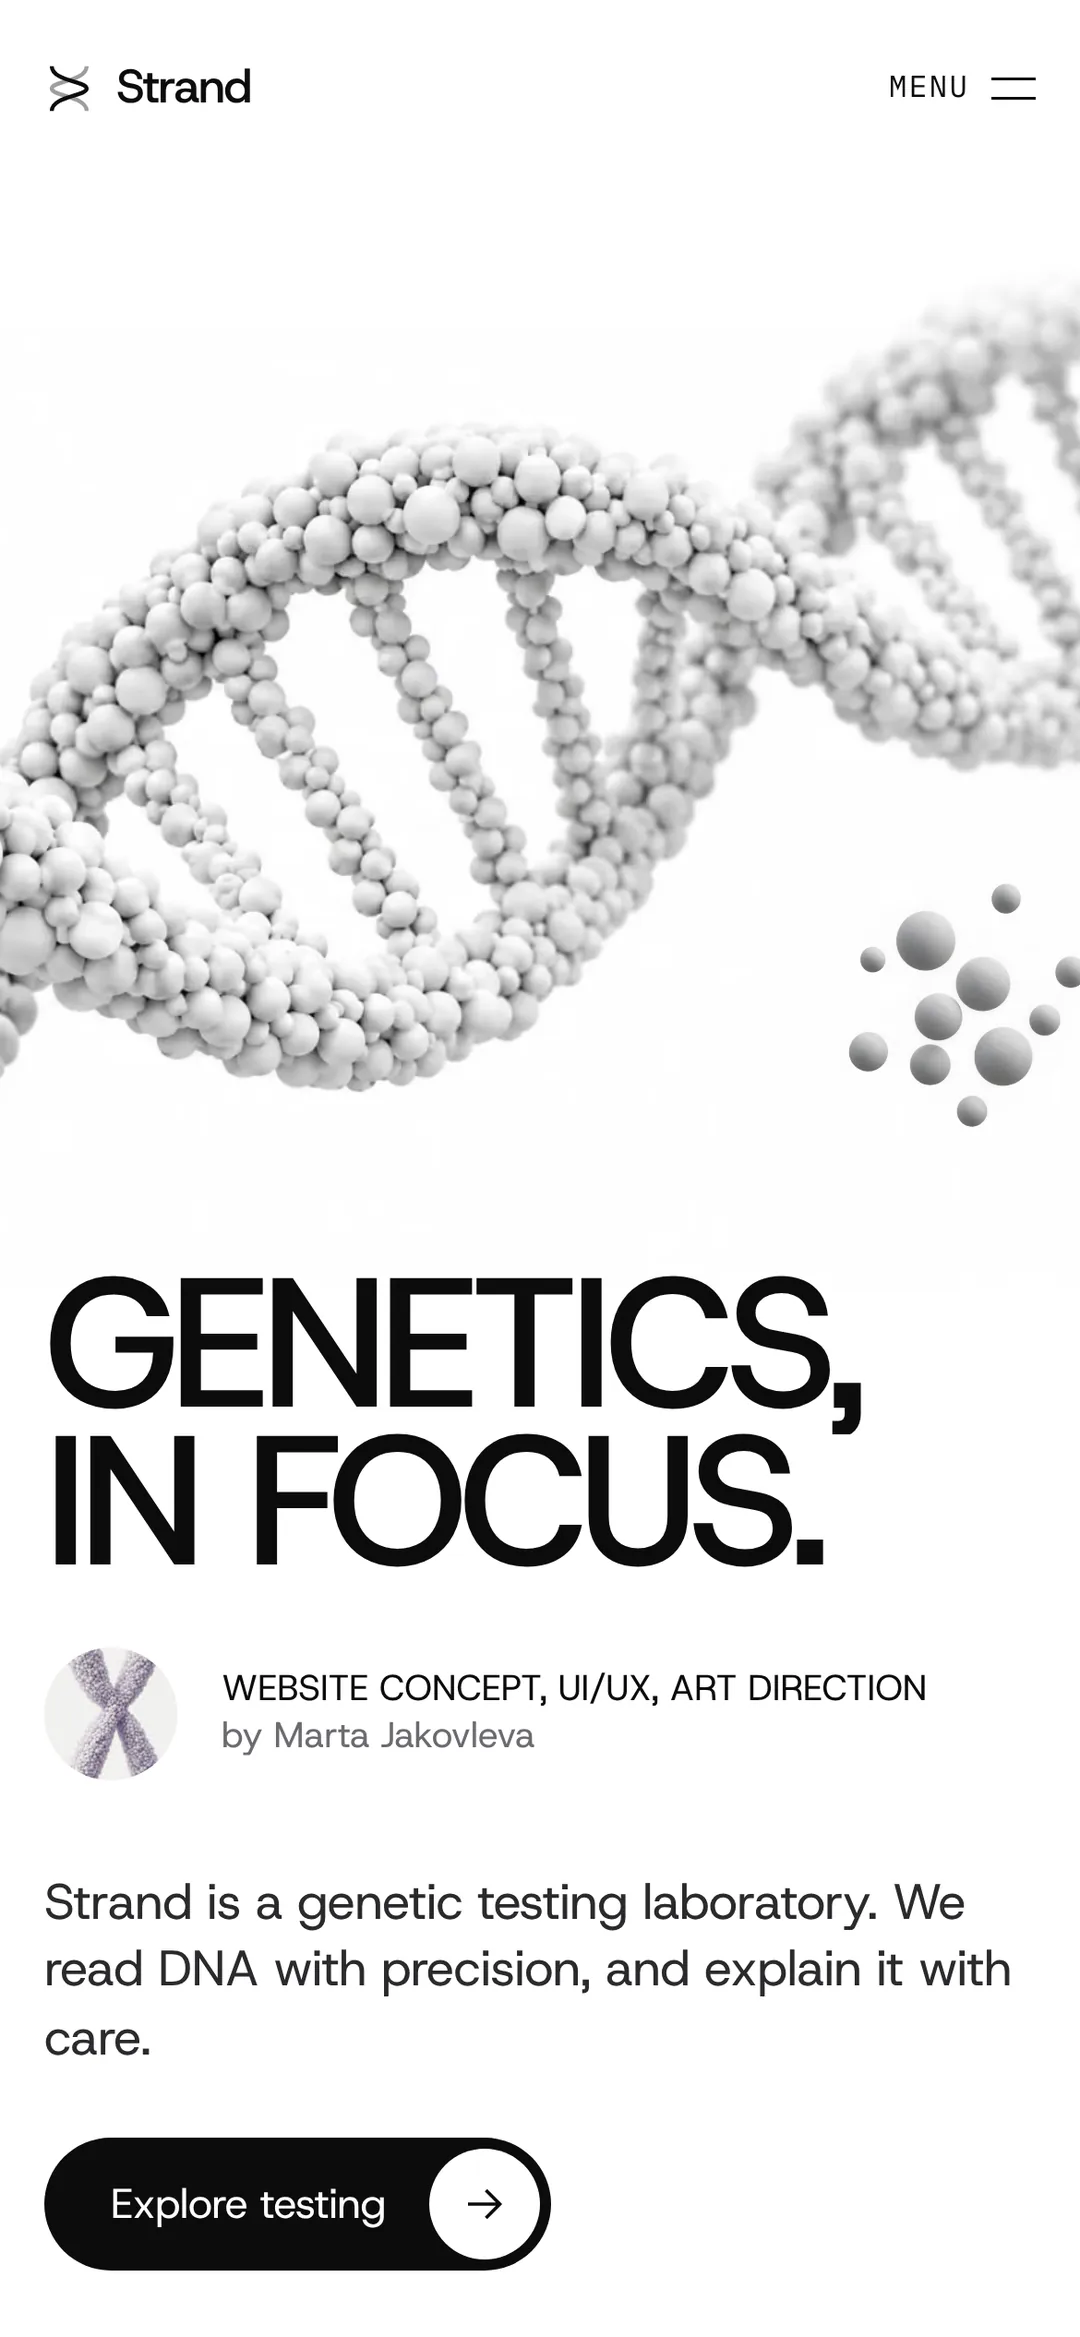
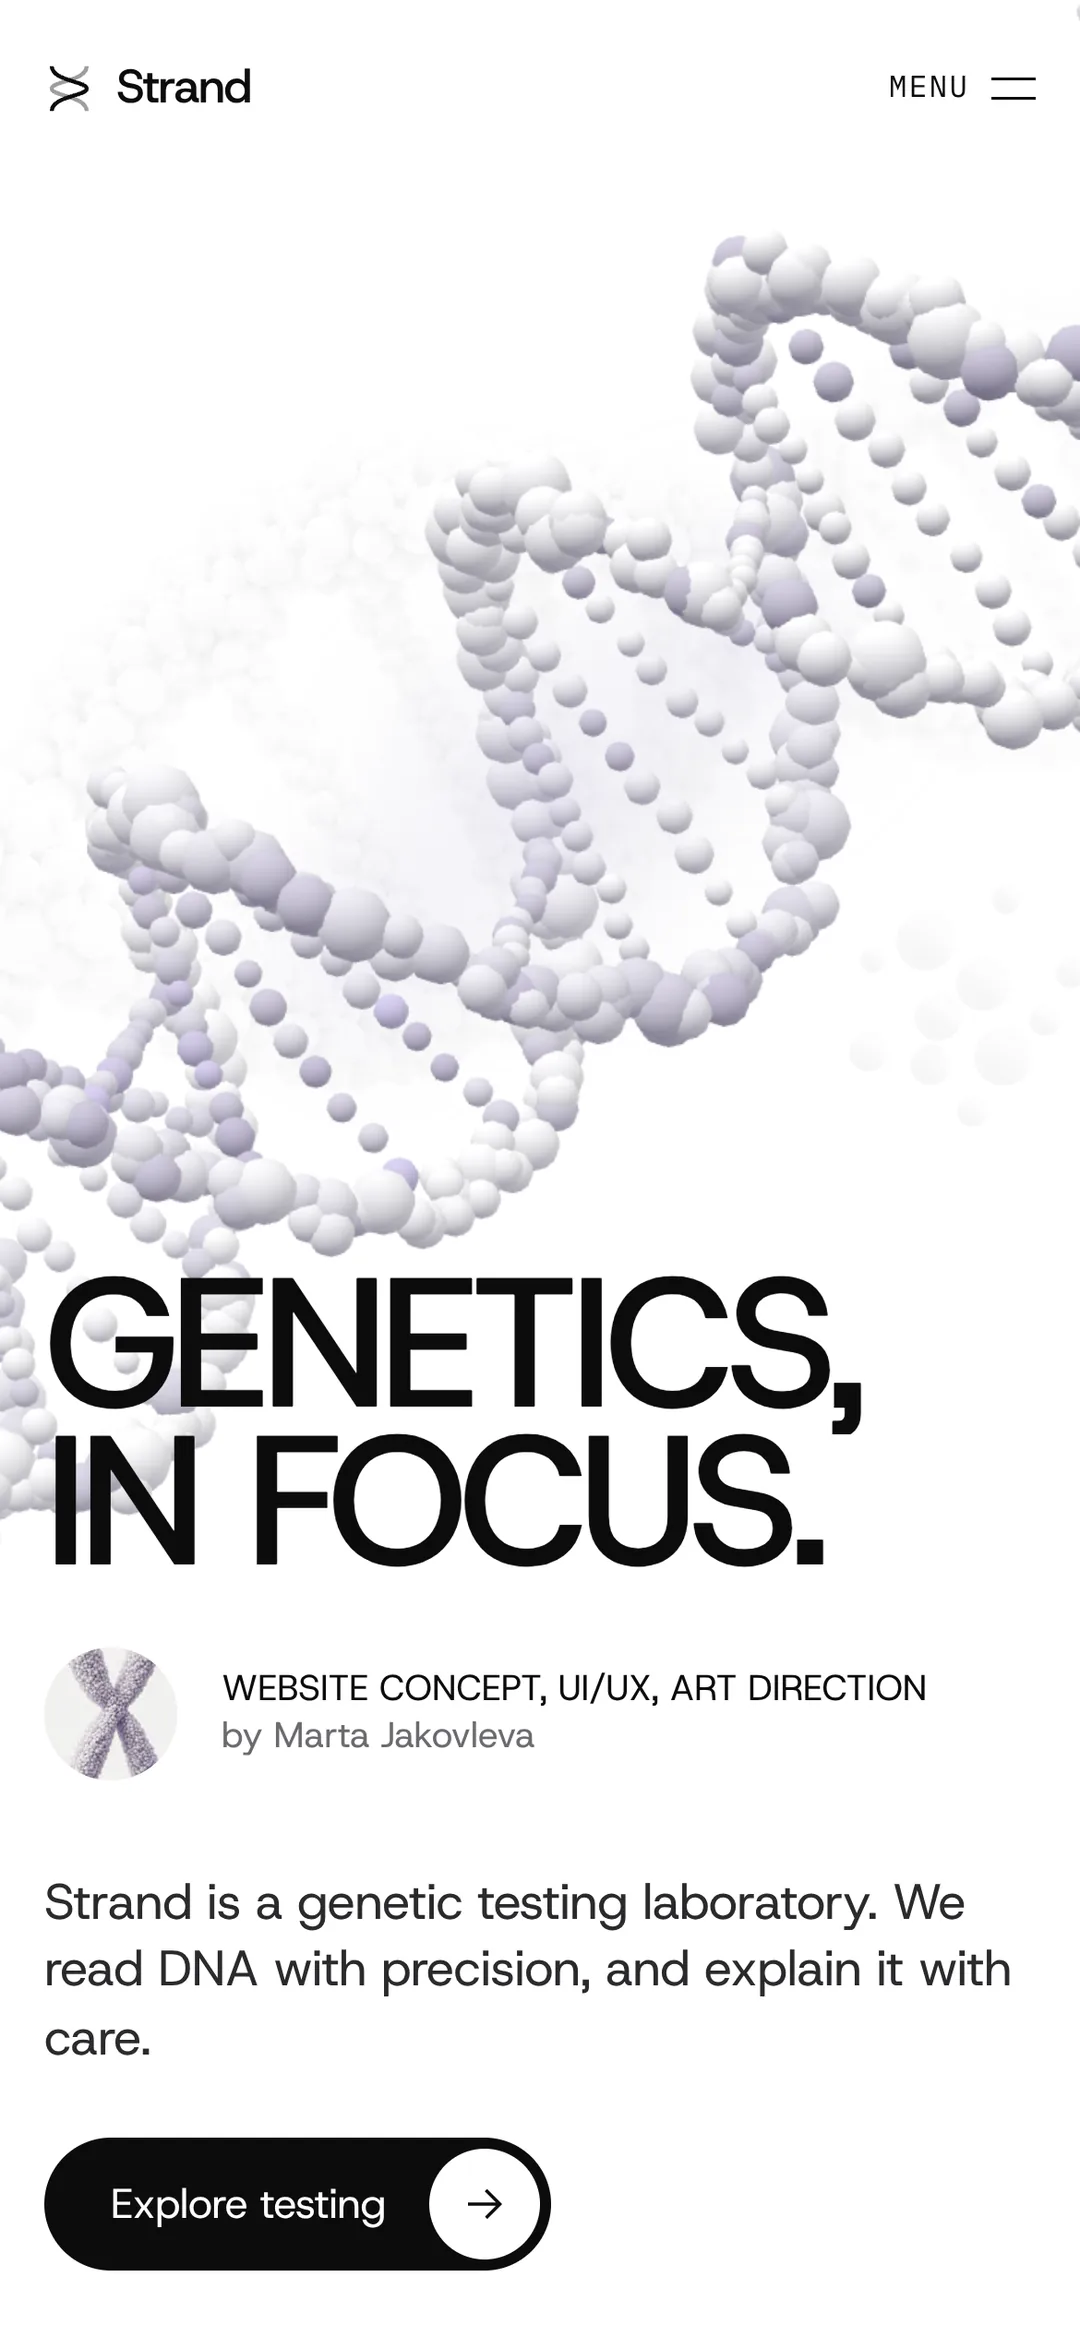
Case study: hero screenshots with the living molecule
Claude-Session: https://claude.ai/code/session_01RdsDynkAy6pkV7xeFTjBUV

Changed region(s): [[0.0, 0.0937, 1.0, 0.656], [0.7944, 0.3748, 1.0, 0.4998], [0.0917, 0.5623, 0.1222, 0.5935]]

diff --git a/src/components/hero/helix-scene.ts b/src/components/hero/helix-scene.ts
@@ -36,7 +36,7 @@ export type HelixOptions = {
 
 export type LifeLevel = "off" | "subtle" | "living" | "atmospheric";
 
-type LifePreset = {
+export type LifePreset = {
   amt: number; // how far a sphere can travel along white → grey → ash violet → luminous
   reach: number; // how much of the structure the currents cover
   glow: number; // opacity of the violet glow in the gaps between spheres
@@ -44,7 +44,7 @@ type LifePreset = {
   rest: number; // permanent tonal variation of a few spheres
 };
 
-const LIFE: Record<Exclude<LifeLevel, "off">, LifePreset> = {
+export const LIFE: Record<Exclude<LifeLevel, "off">, LifePreset> = {
   subtle: { amt: 0.55, reach: 0.6, glow: 0, shadow: 0.2, rest: 0.1 },
   living: { amt: 0.85, reach: 0.85, glow: 0.22, shadow: 0.4, rest: 0.16 },
   atmospheric: { amt: 1, reach: 1, glow: 0.4, shadow: 0.65, rest: 0.24 },
@@ -64,12 +64,12 @@ export function readLifeLevel(fallback: LifeLevel = "off"): LifeLevel {
 const LAV = [0.815, 0.8, 0.86];
 const ASH = [0.478, 0.435, 0.608];
 const LUM = [0.6, 0.54, 0.84];
-const sstep = (a: number, b: number, x: number) => {
+export const sstep = (a: number, b: number, x: number) => {
   const u = Math.min(1, Math.max(0, (x - a) / (b - a)));
   return u * u * (3 - 2 * u);
 };
 /** white-grey base b → violet, by life l in 0..1. Writes into out. */
-function lifeColor(b: number, l: number, out: number[]) {
+export function lifeColor(b: number, l: number, out: number[]) {
   let r = b, g = b, bl = b * 0.995;
   const k1 = sstep(0, 0.4, l);
   r += (LAV[0] - r) * k1; g += (LAV[1] - g) * k1; bl += (LAV[2] - bl) * k1;
@@ -78,6 +78,20 @@ function lifeColor(b: number, l: number, out: number[]) {
   const k3 = sstep(0.82, 1, l);
   r += (LUM[0] - r) * k3; g += (LUM[1] - g) * k3; bl += (LUM[2] - bl) * k3;
   out[0] = r; out[1] = g; out[2] = bl;
+}
+
+/** how alive one sphere is at time t (0..1) — shared by the site and the presentation renders */
+export function lifeAt(it: Inst, t: number, LP: LifePreset, grow: number, swell = 0) {
+  // currents flowing along each strand (slow, opposite phase), modulated by a slower tide
+  const c1 = 0.5 + 0.5 * Math.sin(it.s * 0.5 - t * 0.32 + (it.kind === 1 ? 2.2 : it.kind === 2 ? 1.1 : 0));
+  const c2 = 0.5 + 0.5 * Math.sin(it.s * 0.19 + t * 0.09 + 2.1);
+  const flow = c1 * c1 * c1 * c1 * (0.4 + 0.6 * c2);
+  // each sphere breathes on its own clock — cells at work, almost imperceptibly
+  const breathe = 0.72 + 0.28 * Math.sin(t * (0.35 + it.seed * 0.3) + it.seed * 40);
+  let l = flow * (0.5 + 0.5 * it.aff) * breathe * (0.95 + 0.6 * LP.reach);
+  l = Math.max(l, it.aff > 0.86 ? LP.rest * 2.6 : 0); // a few spheres keep a quiet tone of their own
+  l += swell * 0.5; // a touch sends the signal through
+  return Math.min(1, l) * LP.amt * grow;
 }
 
 /* ------------------------------------------------------------------ */
@@ -582,16 +596,7 @@ export function createHelix({ canvas, section, anchors, onFirstFrame, onInteract
       mesh.setMatrixAt(i, m4);
 
       if (LP && grow > 0) {
-        // currents flowing along each strand (slow, opposite phase), modulated by a slower tide
-        const c1 = 0.5 + 0.5 * Math.sin(it.s * 0.5 - t * 0.32 + (it.kind === 1 ? 2.2 : it.kind === 2 ? 1.1 : 0));
-        const c2 = 0.5 + 0.5 * Math.sin(it.s * 0.19 + t * 0.09 + 2.1);
-        const flow = c1 * c1 * c1 * c1 * (0.4 + 0.6 * c2);
-        // each sphere breathes on its own clock — cells at work, almost imperceptibly
-        const breathe = 0.72 + 0.28 * Math.sin(t * (0.35 + it.seed * 0.3) + it.seed * 40);
-        let l = flow * (0.5 + 0.5 * it.aff) * breathe * (0.95 + 0.6 * LP.reach);
-        l = Math.max(l, it.aff > 0.86 ? LP.rest * 2.6 : 0); // a few spheres keep a quiet tone of their own
-        l += swell * 0.5; // a touch sends the signal through
-        l = Math.min(1, l) * LP.amt * grow;
+        const l = lifeAt(it, t, LP, grow, swell);
         const b = Math.min(1, 0.86 + it.shade * 0.14 + it.h * 0.1);
         lifeColor(b, l, lc);
         const k = Math.min(0.42, it.h * 0.32);

diff --git a/src/lib/case-images.ts b/src/lib/case-images.ts
@@ -34,7 +34,7 @@ import navDark from "@/assets/case/nav-dark.webp";
  * at 1440 × 900, 834 × 1194 and 390 × 844. Nothing here is mocked up.
  */
 export const shots = {
-  dHero: { src: dHero, alt: "Desktop hero: a white DNA helix of matte spheres above the headline Genetics, in focus." },
+  dHero: { src: dHero, alt: "Desktop hero: a DNA helix of matte white spheres with ash violet flowing through it, above the headline Genetics, in focus." },
   dApproach: { src: dApproach, alt: "Desktop Approach section: the opening statement, partly lit word by word." },
   dTesting: { src: dTesting, alt: "Desktop Testing section: headline Six disciplines. One laboratory. above an index of six tests." },
   dTestingHover: { src: dTestingHover, alt: "Testing index on hover: one row in focus, the rest faded, a flow cell preview beside the cursor." },
